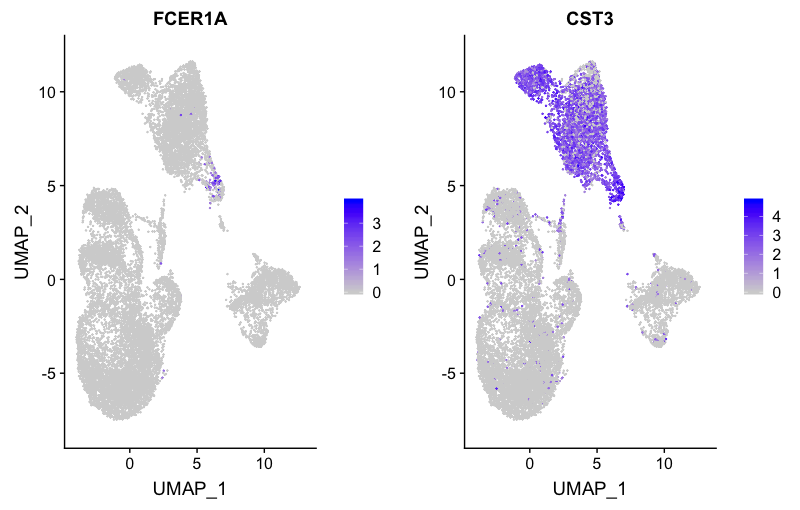
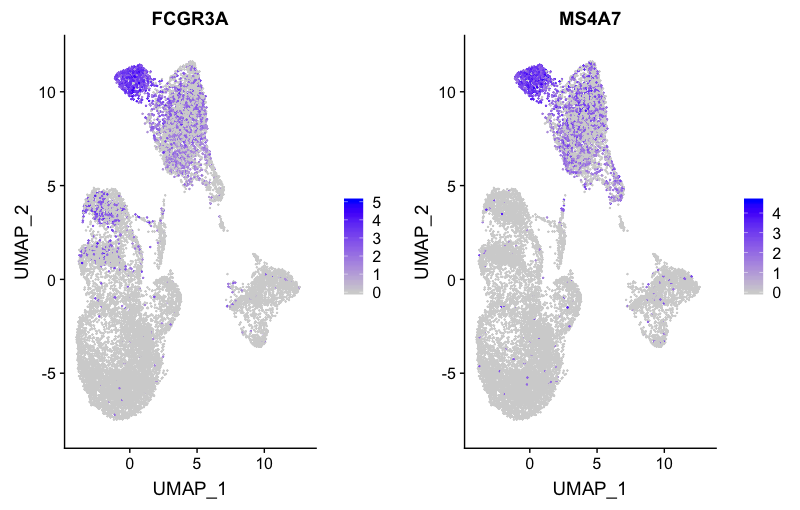
finished clustering for control with all images

diff --git a/lessons/SC_clustering_analysis.md b/lessons/SC_clustering_analysis.md
@@ -1,7 +1,7 @@
 ---
 title: "Single-cell RNA-seq: Clustering Analysis"
 author: "Mary Piper, Lorena Pantano, Meeta Mistry, Radhika Khetani"
-date: Thursday, May 30, 2019
+date: Thursday, June 6, 2019
 ---
 
 Approximate time: 90 minutes
@@ -12,7 +12,8 @@ Approximate time: 90 minutes
 * Utilize methods for evaluating the selection of PCs to use for clustering
 * Perform clustering of cells based on significant PCs
 * Evaluate whether clustering artifacts are present 
-* Determine the quality of clustering with PCA and tSNE plots and understand when to re-cluster
+* Determine the quality of clustering with PCA, tSNE and UMAP plots and understand when to re-cluster
+* Assess known cell type markers to hypothesize cell type identities of clusters
 
 # Single-cell RNA-seq clustering analysis
 
@@ -489,7 +490,7 @@ View(n_cells)
 ```
 
 <p align="center">
-<img src="../img/" width="800">
+<img src="../img/SC_cluster_cells.png" width="800">
 </p>
 
 Tho acquire the different cluster QC metrics, we can use the `FetchData()` function from Seurat, perform some data wrangling, and plot the metrics with ggplot2. We will start by exploring the distribution of cells in each sample and in the different phases of the cell cycle to view by UMAP and PCA.
@@ -511,6 +512,20 @@ umap_label <- FetchData(seurat_control,
         group_by(ident) %>%
         summarise(x=mean(UMAP_1), y=mean(UMAP_2))
 ```
+
+> **NOTE:** How did we know in the `FetchData()` function to include `UMAP_1` to obtain the UMAP coordinates? The [Seurat cheatsheet](https://satijalab.org/seurat/essential_commands.html) describes the function as being able to pull any data from the expression matrices, cell embeddings, or metadata. 
+> 
+> For instance, if you explore the `seurat_control@reductions` list object, the first component is for PCA, and includes a slot for `cell.embeddings`. We can use the column names (`PC_1`, `PC_2`, `PC_3`, etc.) to pull out the coordinates or PC scores corresponding to each cell for each of the PCs. 
+> 
+> We could do the same thing for UMAP:
+> 
+> ```r
+> # Extract the UMAP coordinates for the first 10 cells
+> seurat_control@reductions$umap@cell.embeddings[1:10, 1:2]
+>```
+>
+> The `FetchData()` function just allows us to extract the data more easily.
+
 
 In addition, we can acquire the same metrics to view by PCA:
 
@@ -640,19 +655,24 @@ DimPlot(object = seurat_control,
         label = TRUE)
 ```
 
+<p align="center">
+<img src="../img/SC_umap.png" width="800">
+</p>
+
+
 The `FeaturePlot()` function from seurat makes it easy to visualize a handful of genes using the gene IDs stored in the Seurat object. For example if we were interested in exploring known immune cell markers, such as:
 
-|Marker| Cell Type|
+| Cell Type | Marker |
 |:---:|:---:|
-| CD14, LYZ | CD14+ Monocytes |
-| FCGR3A, MS4A7 | FCGR3A+ Monocytes |
-| FCER1A, CST3 | Dendritic Cells |
-| CD79A, MS4A1 |	B cells|
-| CD3D | T cells |
-| CD3D, IL7R, CCR7 | CD4+ T cells |
-| CD3D, CD8A | CD8+ T cells|
-| GNLY, NKG7 | NK cells|
-| PPBP | Megakaryocytes |
+| CD14+ Monocytes | CD14, LYZ | 
+| FCGR3A+ Monocytes | FCGR3A, MS4A7 |
+| Dendritic Cells | FCER1A, CST3 |
+|	B cells | CD79A, MS4A1 |
+| T cells | CD3D |
+| CD4+ T cells | CD3D, IL7R, CCR7 |
+| CD8+ T cells| CD3D, CD8A |
+| NK cells | GNLY, NKG7 |
+| Megakaryocytes | PPBP |
 
 Seurat's `FeaturePlot()` function let's us easily explore the known markers on top of our t-SNE or UMAP visualizations. Let's go through and determine the identities of the clusters.
 
@@ -689,7 +709,7 @@ FeaturePlot(seurat_control,
 ```
 
 <p align="center">
-<img src="../img/markers_FCGR3A_monocytes.png" width="800">
+<img src="../img/markers_DCs.png" width="800">
 </p>
 
 **B cell markers**
@@ -699,6 +719,7 @@ FeaturePlot(seurat_control,
             reduction = "umap", 
             features = c("CD79A", "MS4A1"))
 ```
+
 <p align="center">
 <img src="../img/markers_Bcells.png" width="800">
 </p>
@@ -711,12 +732,21 @@ FeaturePlot(seurat_control,
             features = c("CD3D"))
 ```
 
+<p align="center">
+<img src="../img/markers_Tcells.png" width="600">
+</p>
+
 **CD4+ T cell markers**
+
 ```r
 FeaturePlot(seurat_control, 
             reduction = "umap", 
             features = c("CD3D", "IL7R", "CCR7"))
 ```
+
+<p align="center">
+<img src="../img/markers_CD4Tcells.png" width="800">
+</p>
 
 **CD8+ T cell markers**
 
@@ -726,6 +756,10 @@ FeaturePlot(seurat_control,
             features = c("CD3D", "CD8A"))
 ```
 
+<p align="center">
+<img src="../img/markers_CD8Tcells.png" width="800">
+</p>
+
 **NK cell markers**
 
 ```r
@@ -733,6 +767,11 @@ FeaturePlot(seurat_control,
             reduction = "umap", 
             features = c("GNLY", "NKG7"))
 ```
+
+<p align="center">
+<img src="../img/markers_NKcells.png" width="800">
+</p>
+
 
 **Megakaryocyte markers**
 
@@ -742,12 +781,41 @@ FeaturePlot(seurat_control,
             features = c("PPBP"))
 ```
 
+<p align="center">
+<img src="../img/markers_megakaryocytes.png" width="600">
+</p>
 
-Based on these results, it indicates that there are some clusters that we are not identifying that appear to be separate cell types. The megakaryocytes and the dendritic cells appear clustered with other cell type clusters, so what do we do with them?
 
-We would generally want to go back through the clustering, but change parameters. Did we use too few principal components that we are just not separating out these cells? We can look at our PC gene expression overlapping the tSNE plots and see these cell populations separate by PC6 and PC8, so the variation seems to be captured by our PCs. However, we might not have had a high enough resolution for our tSNE when we performed the clustering. We would want to try to re-run the tSNE with higher resolution.
+Based on these results, we can associate clusters with the cell types. However, we would like to perform a deeper analysis using marker identification before performing a final assignment of the clusters to a cell type.
 
-After we have identified our desired clusters, we can move on to marker identification, which will allow us to verify the identity of certain clusters and help surmise the identity of any unknown clusters. Since we have two clusters identified as CD4 T cells, we may also want to know which genes are differentially expressed between these two clusters.
+
+| Cell Type | Clusters |
+|:---:|:---:|
+| CD14+ Monocytes | 0, 5 | 
+| FCGR3A+ Monocytes | 11 |
+| Dendritic Cells | 10 |
+| B cells | 4, 13 |
+| T cells | 1, 2, 3, 7, 8, 14, 15 |
+| CD4+ T cells | 1, 2, 3, 14, 15 |
+| CD8+ T cells| 7, 8 |
+| NK cells | 6, 7 |
+| Megakaryocytes | 12 |
+| Unknown | 9 |
+
+> **NOTE:** If you had known markers for different cell types that recognized different parts of the same cluster (e.g. B cell and T cell markers both marked the same cluster), then this would be an indication that the resolution should be increased, followed by re-clustering of the cells. 
+>
+> Also, it's possible to use too few principal components such that we are just not separating out these cell types of interest. We can look at our PC gene expression overlapping the UMAP plots and determine whether our cell populations are separating by the PCs included.
+
+Now we have a decent idea as to the cell types corresponding to the majority of the clusters, but some questions remain:
+
+1. *What is the cell type identity of cluster 9?*
+2. *Is cluster 7 a CD8+ T cell or an NK cell? Perhaps an NK T cell?*
+3. *Do the clusters corresponding to the same cell types have biologically meaningful differences? Are there subpopulations of these cell types?*
+4. *Can we acquire higher confidence in these cell type identities by identifying other marker genes for these clusters?*
+
+Marker identification analysis can help us address all of these questions. The next step will be to perform marker identification analysis, which will output the genes that significantly differ in expression between clusters. Using these genes we can determine or improve confidence in the identities of the clusters/subclusters.
+
+[Next lesson]()
 
 ***
 

diff --git a/lessons/SC_marker_identification.md b/lessons/SC_marker_identification.md
@@ -14,6 +14,7 @@ Approximate time: 45 minutes
 # Single-cell RNA-seq marker identification
 
 Now that we have the single cells clustered based on different cell types,  we are ready to move forward with identifying cluster markers. 
+After we have identified our desired clusters, we can move on to marker identification, which will allow us to verify the identity of certain clusters and help surmise the identity of any unknown clusters. Since we have two clusters identified as CD4 T cells, we may also want to know which genes are differentially expressed between these two clusters.
 
 <img src="../img/sc_workflow.png" width="800">
 
